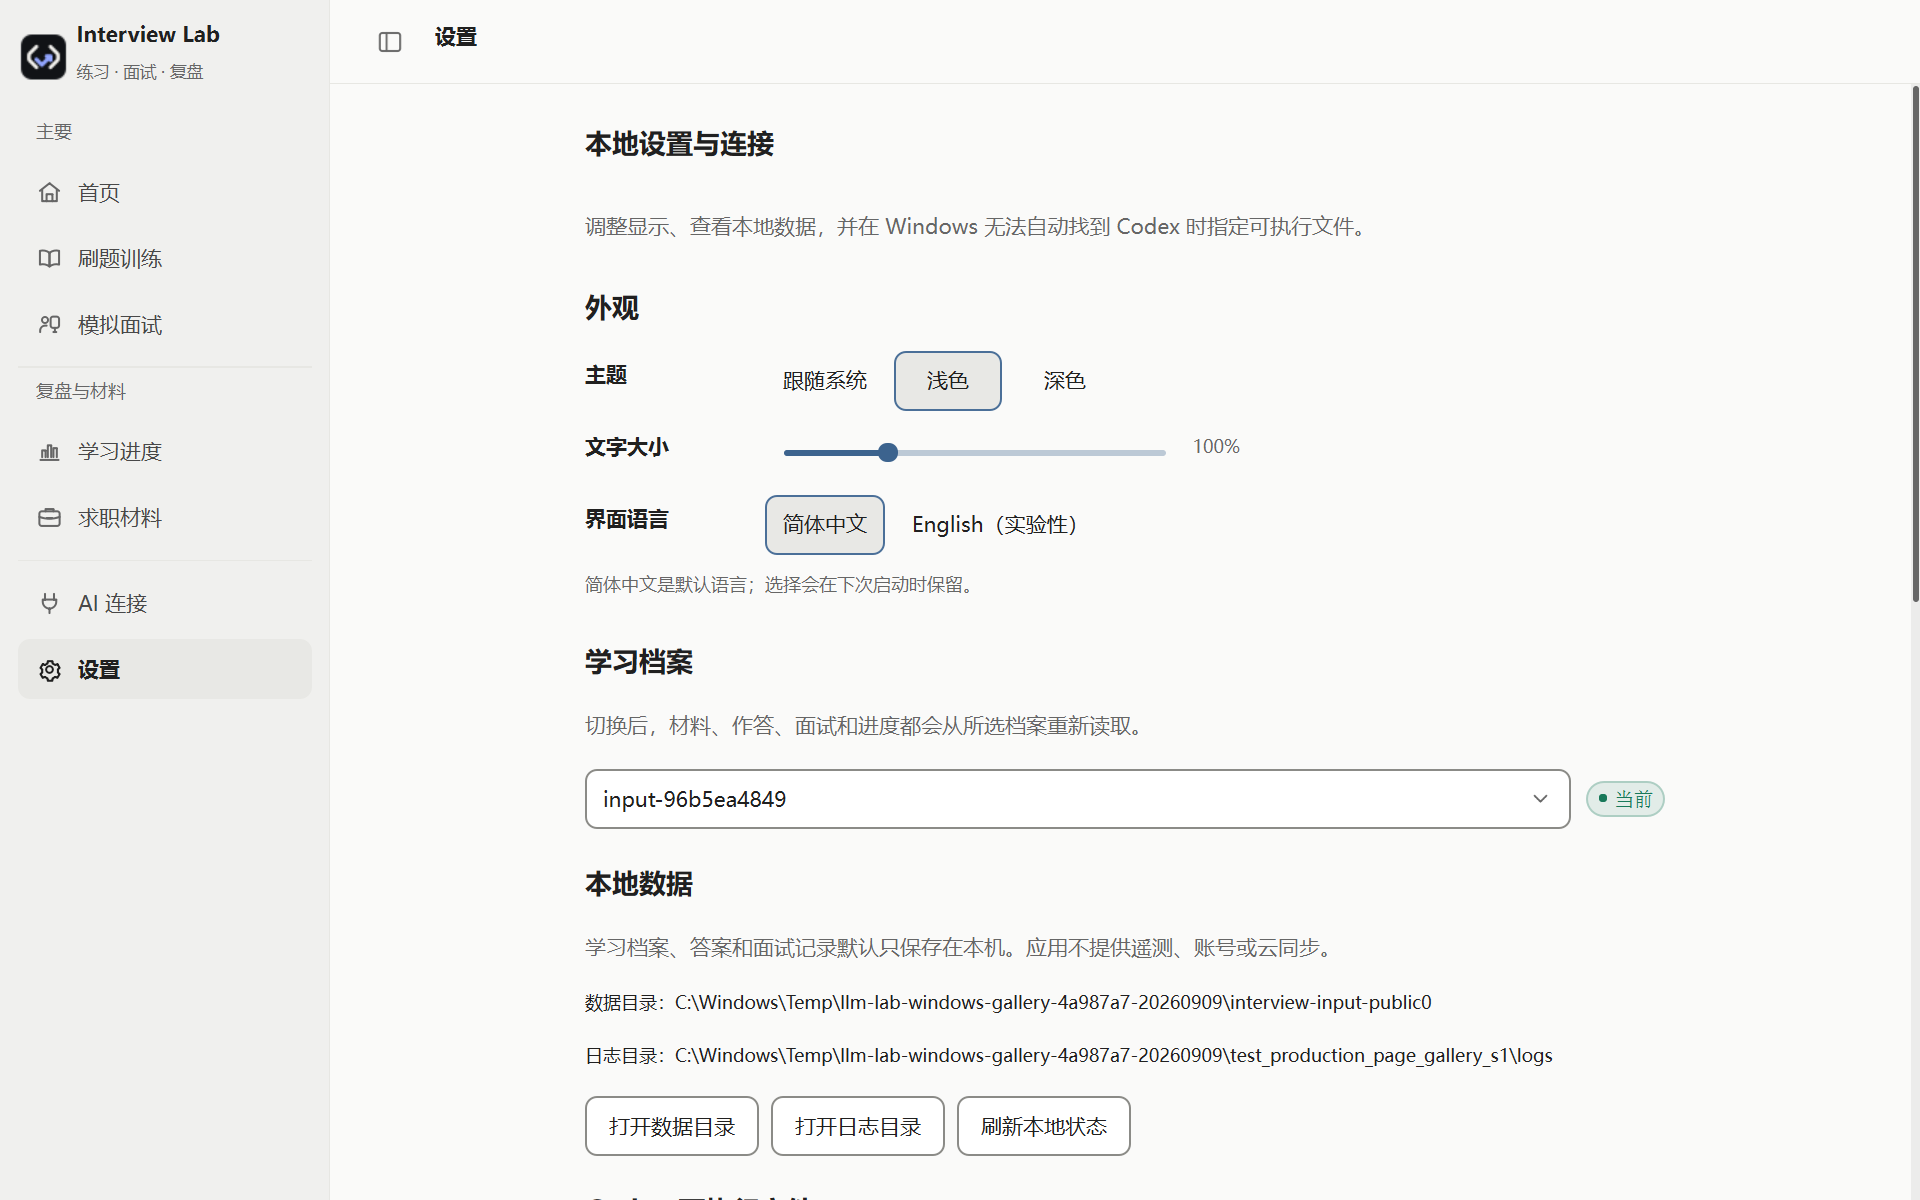
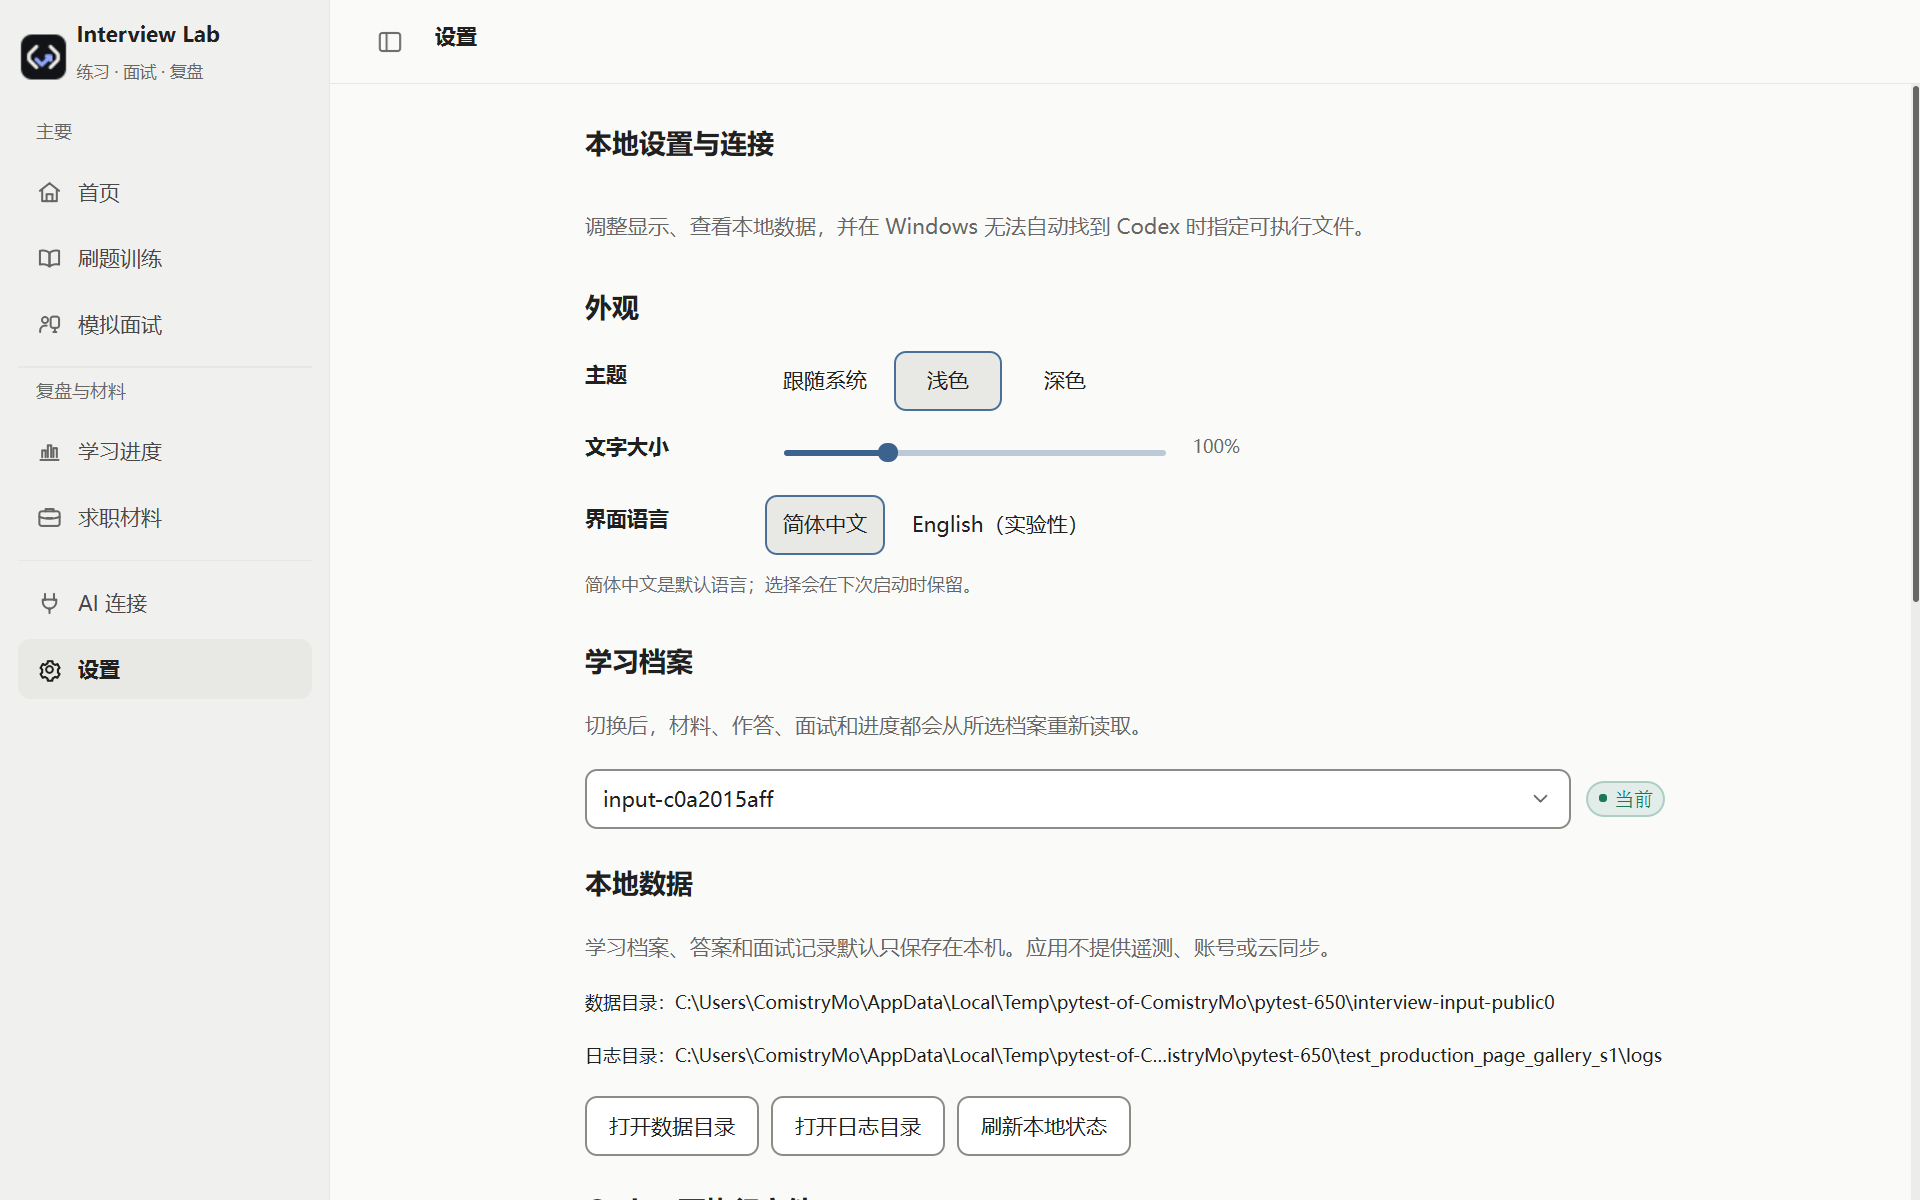
docs: refresh candidate evidence and validate corrected portable workers

Changed region(s): [[0.375, 0.8325, 0.875, 0.8942], [0.3438, 0.6475, 0.4062, 0.6783]]

diff --git a/plans/active/desktop-release-candidate-20260909.zh.md b/plans/active/desktop-release-candidate-20260909.zh.md
@@ -116,6 +116,16 @@ git diff --check
 
 ### 当前定向证据与待查
 
+#### 2026-09-09 05:23 HKT 续接
+
+- 唯一全量失败清单逐项重跑：54 passed；截图/仓库文档契约组合：118 passed。不重跑全量。
+- `4a987a7` 包完成并通过原 Artifact smoke，真实原生操作可创建中文合成档案并打开 FND-001；保存正常，但无 Python 路径下脚本/Grader 启动失败。因此此包仍不可交付。
+- 已直接读取本轮合成应用进程的两个运行变量确认：Nuitka 将 `sys.executable` 指向未随包交付的 `python.exe`。`f0b173c` 改用正在运行应用的 argv[0]，增加已有脚本业务的私有 worker 分派，同时明确打入 pytest 动态插件。Windows/macOS Artifact 检查现在实际执行 stdin → stdout 和 pytest/unittest 子进程，不能仅以窗口 smoke 放行。新增相关目标组合 24 passed。
+- 新建仅安装 dev 的隔离环境复现 CI 缺 httpx：补充 dev 依赖后 660 项成功收集；DeepSeek/worker/release 定向 24 passed。无 Torch 环境的 45 项面试/内容目标验证通过：不可运行题明确排除，流程记 coding 缺口，不改生产选题资格或分数。
+- macOS `34276888730` 原始结果为 926 passed / 12 failed / 8 skipped，未进行构建。现在可使用已有 GitHub 连接读取日志（gh 仍未登录），不需要用户凭证。按具体失败修复紧凑页面的宽度来源、连接表单重排定位和展开面试配置后的字段可达性；Windows 对应 14 passed，连接精简后的复查 8 passed。macOS 修复仍须远端重新验证。
+- 正式截图重新取自 `f0b173c`，七页双主题 7 passed。Before 保持 cb3d13b 历史源码，未篡改旧图。Windows 新包正在构建，输出目录 `dist/candidate-workers-windows`。
[1 lines of base64/hex data omitted]
+
 - 六项反馈测试初轮 8 passed；草稿/重启/偏好组合 7 passed；本地 STT 与知识测试 27 passed / 2 skipped（既有实际模型/录音环境要求未满足，不是新增跳过）。928 tests collected 为实现中快照，非最终测试总数。
 - 所有上述网络动作是受控替身，无真实凭证、麦克风或付费 AI 调用；正式 Windows QML 截图仅证明布局，不证明 AI 已连通。
 - 性能脚本将新 fixture 放在仓库嵌套 E 盘路径时出现 Qt 原生访问错误，定位在 QSettings 同步附近；单独 QSettings 及定向测试通过。改用系统临时目录后连续 5 个新进程完成；这不是根因证明，仍需检查 E 盘/打包入口。正式应用使用系统 QSettings，而非此脚本的 INI 覆盖。没有修改生产序列化或编辑器实例来掩盖错误。
